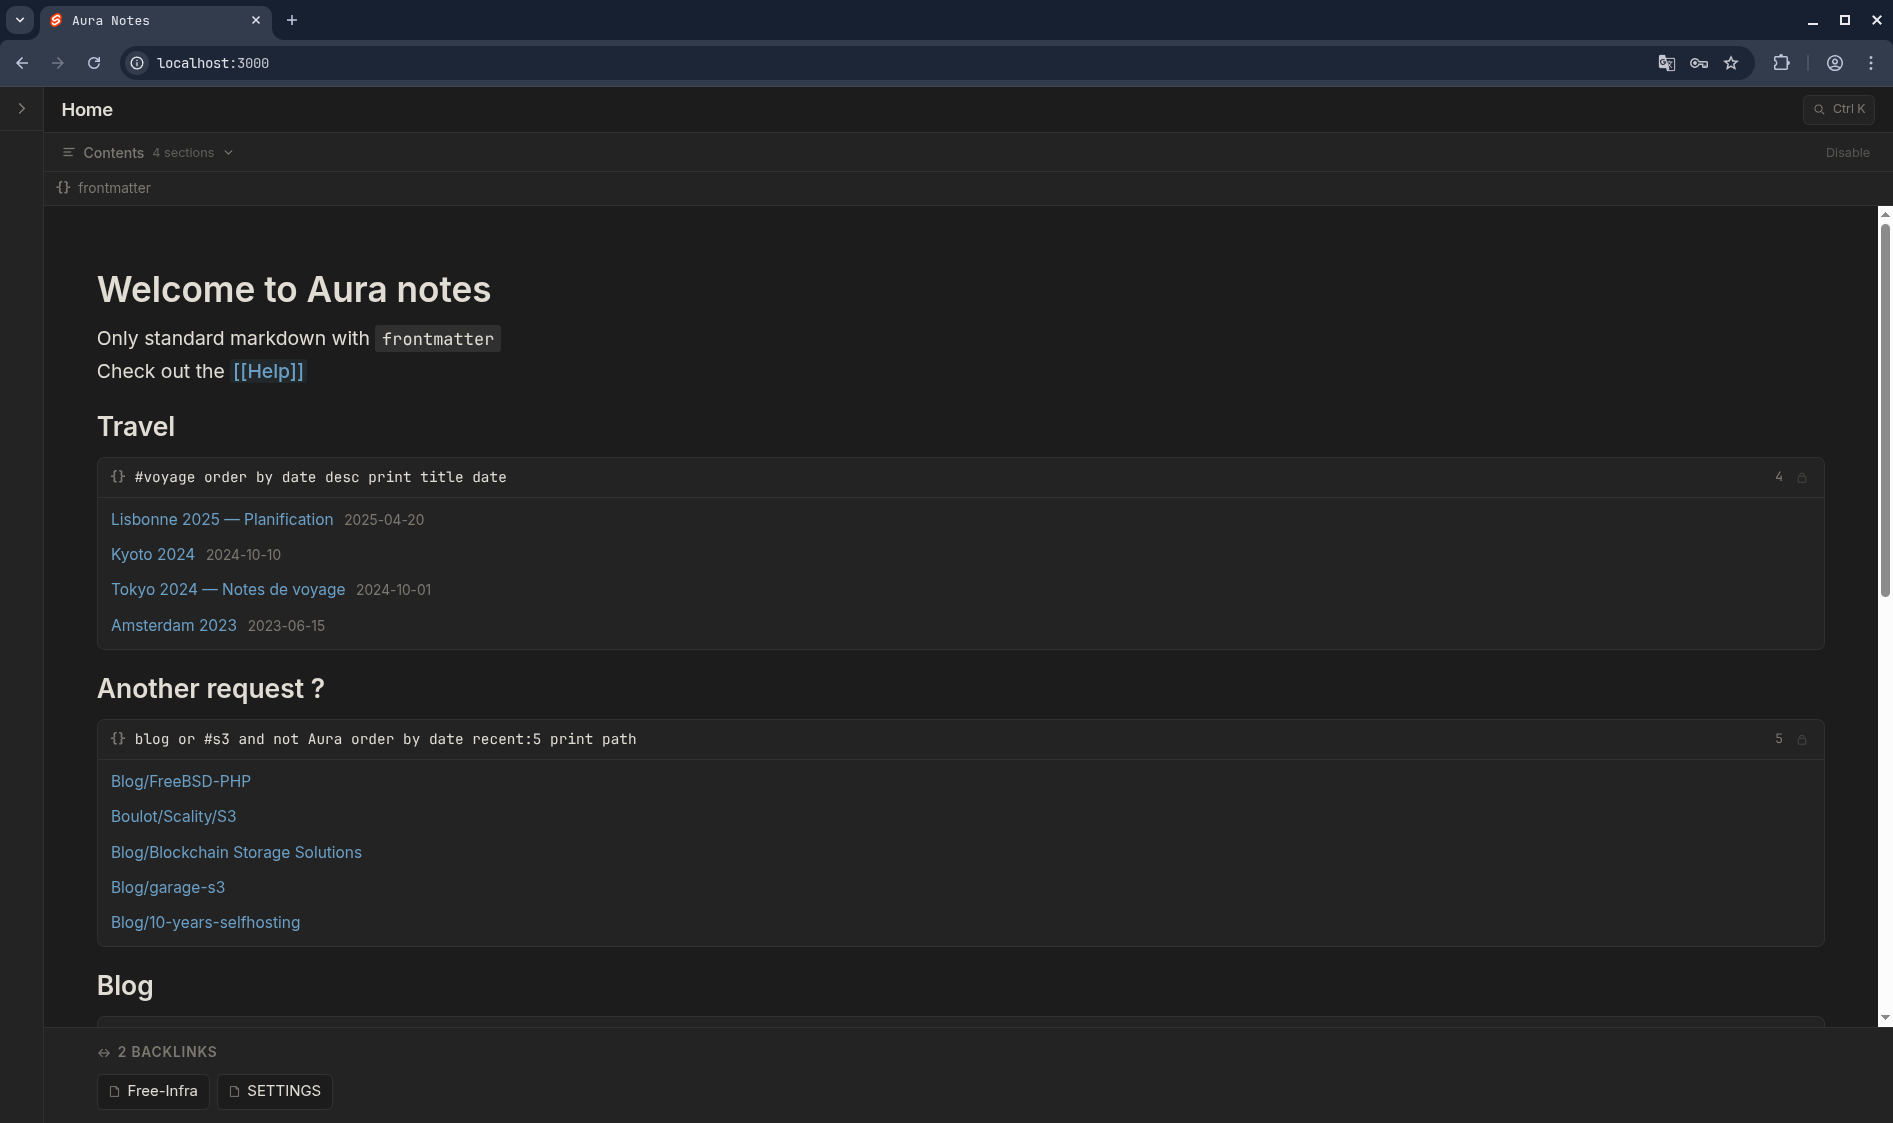
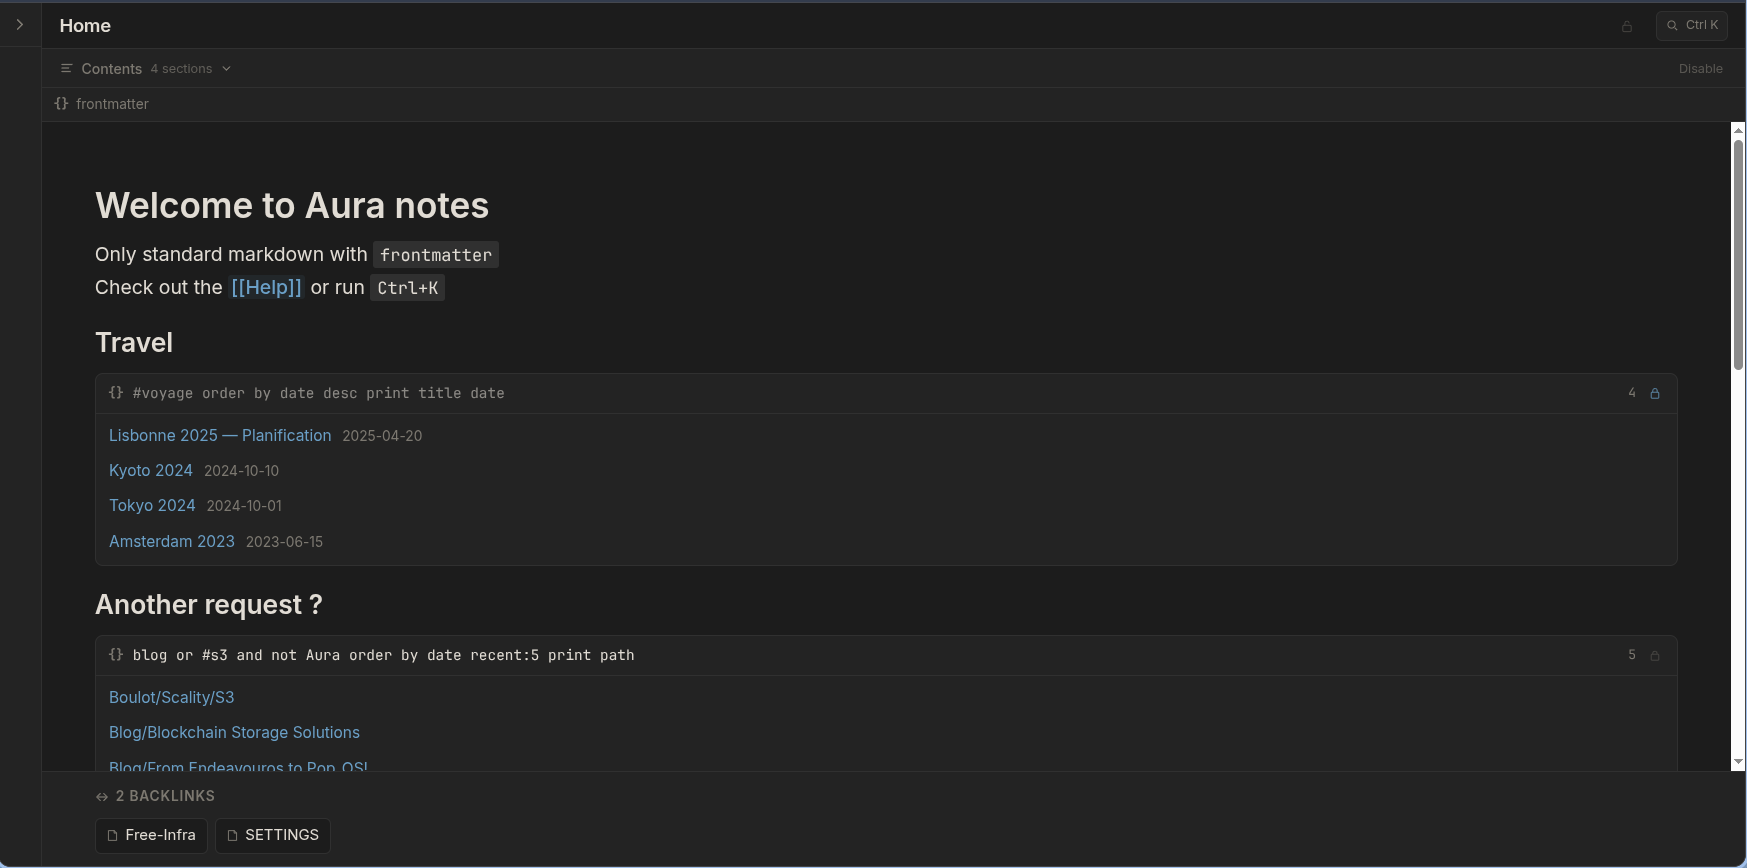
Add note locking, brute-force protection, responsive index grid
- locked: true frontmatter field makes a note read-only (frontend padlock
  icon in titlebar, TipTap editable toggled via $effect); queryable via
  locked:true/false in the DSL (NoteRow.locked, Pred::Locked)
- Login brute-force guard: 3 failures → 60s lockout per IP (in-memory,
  no external deps); uses ConnectInfo<SocketAddr> via Axum
- Index page grid: auto-fill responsive columns (1 on mobile, 2-3+ on
  wider screens) replacing the fixed 1fr 1fr
- Excalidraw CSS lazy-loaded with JS; chunkSizeWarningLimit raised to 2000
- Updated Help.md and CLAUDE.md

Changed region(s): [[0.0, 0.0, 1.0, 1.0], [0.0309, 0.2177, 0.2782, 0.3422]]

diff --git a/frontend/src/routes/+page.svelte b/frontend/src/routes/+page.svelte
@@ -63,6 +63,7 @@
 	);
 
 	const isIndex = $derived(noteFrontmatter.type === 'index');
+	const isLocked = $derived(noteFrontmatter.locked === true);
 
 	function disableToc() {
 		onFrontmatterChange({ ...noteFrontmatter, toc: false });
@@ -227,6 +228,16 @@
 		document.dispatchEvent(new CustomEvent('notes:changed'));
 	}
 
+	function toggleLock() {
+		const fm = { ...noteFrontmatter };
+		if (isLocked) {
+			delete (fm as any).locked;
+		} else {
+			(fm as any).locked = true;
+		}
+		onFrontmatterChange(fm);
+	}
+
 	function openPalette() {
 		paletteOpen = true;
 	}
@@ -352,6 +363,27 @@
 						{#if saving}
 							<span class="saving-label">Saving…</span>
 						{/if}
+						<button
+							onclick={toggleLock}
+							title={isLocked ? 'Unlock note' : 'Lock note (read-only)'}
+							class="lock-btn"
+							class:locked={isLocked}
+							aria-label={isLocked ? 'Unlock note' : 'Lock note'}
+						>
+							{#if isLocked}
+								<!-- Closed padlock -->
+								<svg width="14" height="14" viewBox="0 0 20 20" fill="none" aria-hidden="true">
+									<rect x="4" y="9" width="12" height="9" rx="2" stroke="currentColor" stroke-width="1.5"/>
+									<path d="M7 9V6a3 3 0 0 1 6 0v3" stroke="currentColor" stroke-width="1.5" stroke-linecap="round"/>
+								</svg>
+							{:else}
+								<!-- Open padlock -->
+								<svg width="14" height="14" viewBox="0 0 20 20" fill="none" aria-hidden="true">
+									<rect x="4" y="9" width="12" height="9" rx="2" stroke="currentColor" stroke-width="1.5"/>
+									<path d="M7 9V6a3 3 0 0 1 6 0" stroke="currentColor" stroke-width="1.5" stroke-linecap="round"/>
+								</svg>
+							{/if}
+						</button>
 						<!-- Small command palette button -->
 						<button
 							onclick={openPalette}
@@ -394,7 +426,7 @@
 					frontmatter={noteFrontmatter}
 					onChange={onFrontmatterChange}
 				/>
-				<Editor {noteContent} noteNames={notes.map(n => n.name)} {onEdit} {isIndex} />
+				<Editor {noteContent} noteNames={notes.map(n => n.name)} {onEdit} {isIndex} {isLocked} />
 			{/key}
 			<Backlinks note={selected} onNavigate={selectNote} />
 		{:else}
@@ -533,6 +565,28 @@
 	.cmd-btn kbd {
 		font-family: inherit;
 		font-size: 0.7rem;
+	}
+
+	.lock-btn {
+		background: none;
+		border: none;
+		cursor: pointer;
+		color: var(--muted);
+		padding: 0.25rem;
+		border-radius: 5px;
+		display: flex;
+		align-items: center;
+		opacity: 0.4;
+		transition: opacity 0.15s, color 0.15s;
+	}
+
+	.lock-btn:hover {
+		opacity: 1;
+	}
+
+	.lock-btn.locked {
+		opacity: 1;
+		color: #e07b39;
 	}
 
 	/* ── Rename ──────────────────────────────────────────────── */

diff --git a/frontend/src/lib/Editor.svelte b/frontend/src/lib/Editor.svelte
@@ -284,10 +284,11 @@
 		noteContent: string;
 		noteNames: string[];
 		isIndex?: boolean;
+		isLocked?: boolean;
 		onEdit: (markdown: string) => void;
 	}
 
-	let { noteContent, noteNames, isIndex = false, onEdit }: Props = $props();
+	let { noteContent, noteNames, isIndex = false, isLocked = false, onEdit }: Props = $props();
 
 	let element: HTMLDivElement;
 	let editor: Editor | null = null;  // must NOT be $state — TipTap mutates it internally
@@ -428,6 +429,11 @@
 		}
 	});
 
+	$effect(() => {
+		if (!editorReady || !editor) return;
+		editor.setEditable(!isLocked);
+	});
+
 	onDestroy(() => {
 		document.removeEventListener('insert-image', onInsertImageEvent);
 		if (_imgPasteHandler) element.removeEventListener('paste', _imgPasteHandler as EventListener, true);
@@ -438,7 +444,7 @@
 	});
 </script>
 
-<div bind:this={element} class="editor-wrap" class:index-page={isIndex}></div>
+<div bind:this={element} class="editor-wrap" class:index-page={isIndex} class:locked={isLocked}></div>
 
 {#if tableActive && editorReady}
 	<div class="table-toolbar" role="toolbar" tabindex="-1" aria-label="Table actions" style={toolbarStyle} onmousedown={(e) => e.preventDefault()}>
@@ -486,6 +492,11 @@
 		flex: 1;
 		overflow-y: auto;
 		padding: 2rem 3rem;
+	}
+
+	.locked :global(.tiptap-editor) {
+		cursor: default;
+		user-select: text;
 	}
 
 	/* ── Index page layout ──────────────────────────────── */

diff --git a/backend/src/auth.rs b/backend/src/auth.rs
@@ -1,10 +1,61 @@
+use std::{
+    collections::HashMap,
+    net::IpAddr,
+    sync::RwLock,
+    time::{Duration, Instant},
+};
 use std::sync::Arc;
 
 use argon2::{Argon2, PasswordHasher, PasswordVerifier, password_hash::{PasswordHash, SaltString}};
-use axum::{Json, extract::{Request, State}, http::{HeaderMap, StatusCode}, middleware::Next, response::Response};
+use axum::{Json, extract::{ConnectInfo, Request, State}, http::{HeaderMap, StatusCode}, middleware::Next, response::Response};
 use serde::{Deserialize, Serialize};
 
 use crate::AppState;
+
+// ── Brute-force guard ─────────────────────────────────────────────────────────
+
+const MAX_FAILURES: u32 = 3;
+const LOCKOUT: Duration = Duration::from_secs(60);
+
+struct FailRecord {
+    count: u32,
+    locked_until: Option<Instant>,
+}
+
+pub struct LoginGuard {
+    map: RwLock<HashMap<IpAddr, FailRecord>>,
+}
+
+impl LoginGuard {
+    pub fn new() -> Self {
+        Self { map: RwLock::new(HashMap::new()) }
+    }
+
+    pub fn is_locked(&self, ip: IpAddr) -> bool {
+        let map = self.map.read().unwrap();
+        map.get(&ip)
+            .and_then(|r| r.locked_until)
+            .is_some_and(|until| Instant::now() < until)
+    }
+
+    pub fn record_failure(&self, ip: IpAddr) {
+        let mut map = self.map.write().unwrap();
+        let rec = map.entry(ip).or_insert(FailRecord { count: 0, locked_until: None });
+        // Reset if a previous lockout has expired
+        if rec.locked_until.is_some_and(|u| Instant::now() >= u) {
+            rec.count = 0;
+            rec.locked_until = None;
+        }
+        rec.count += 1;
+        if rec.count >= MAX_FAILURES {
+            rec.locked_until = Some(Instant::now() + LOCKOUT);
+        }
+    }
+
+    pub fn record_success(&self, ip: IpAddr) {
+        self.map.write().unwrap().remove(&ip);
+    }
+}
 
 // ── Middleware ────────────────────────────────────────────────────────────────
 
@@ -40,15 +91,27 @@ pub struct LoginResponse {
 
 pub async fn login(
     State(state): State<Arc<AppState>>,
+    ConnectInfo(addr): ConnectInfo<std::net::SocketAddr>,
     Json(payload): Json<LoginPayload>,
 ) -> Result<Json<LoginResponse>, StatusCode> {
+    let ip = addr.ip();
+
+    if state.login_guard.is_locked(ip) {
+        return Err(StatusCode::TOO_MANY_REQUESTS);
+    }
+
     let hash = PasswordHash::new(&state.password_hash)
         .map_err(|_| StatusCode::INTERNAL_SERVER_ERROR)?;
 
-    Argon2::default()
+    if Argon2::default()
         .verify_password(payload.password.as_bytes(), &hash)
-        .map_err(|_| StatusCode::UNAUTHORIZED)?;
+        .is_err()
+    {
+        state.login_guard.record_failure(ip);
+        return Err(StatusCode::UNAUTHORIZED);
+    }
 
+    state.login_guard.record_success(ip);
     Ok(Json(LoginResponse { token: state.sessions.create() }))
 }
 

diff --git a/backend/src/db.rs b/backend/src/db.rs
@@ -22,6 +22,7 @@ pub struct NoteRow {
     pub author: Option<String>,
     pub rating: Option<i64>,
     pub pinned: bool,
+    pub locked: bool,
     pub area: Option<String>,
     pub priority: Option<String>,
     pub project: Option<String>,
@@ -72,6 +73,7 @@ impl Db {
             author: parsed.author.clone(),
             rating: parsed.rating,
             pinned: parsed.pinned,
+            locked: parsed.locked,
             area: parsed.area.clone(),
             priority: parsed.priority.clone(),
             project: parsed.project.clone(),
@@ -288,6 +290,7 @@ enum Pred {
     Alias(String, bool),      // exact match (lowercase)
     Url(String, bool),        // substring (lowercase)
     Pinned(bool),             // expected value (NOT already folded in at parse time)
+    Locked(bool),
     Priority(String, bool),        // exact match (high/medium/low)
     Project(String, bool),         // substring (lowercase)
     LastModified(String, bool),    // starts_with
@@ -360,6 +363,7 @@ impl Pred {
                 if *not { !m } else { m }
             }
             Pred::Pinned(expected) => note.pinned == *expected,
+            Pred::Locked(expected) => note.locked == *expected,
             Pred::Priority(val, not) => {
                 let m = note.priority.as_deref() == Some(val.as_str());
                 if *not { !m } else { m }
@@ -530,6 +534,11 @@ fn parse_query(q: &str) -> (Vec<Vec<Pred>>, Vec<Pred>, Option<usize>, Option<usi
                 "pinned" => match v {
                     "true"  => Pred::Pinned(!not),
                     "false" => Pred::Pinned(not),
+                    _       => continue,
+                },
+                "locked" => match v {
+                    "true"  => Pred::Locked(!not),
+                    "false" => Pred::Locked(not),
                     _       => continue,
                 },
                 "recent" => {

diff --git a/backend/src/main.rs b/backend/src/main.rs
@@ -25,6 +25,7 @@ pub struct AppState {
     pub password_hash: String,
     pub sessions: session::SessionStore,
     pub api_key: Option<String>,
+    pub login_guard: auth::LoginGuard,
 }
 
 #[tokio::main]
@@ -96,6 +97,7 @@ async fn setup_state() -> (AppState, u16) {
         password_hash: cfg.password,
         sessions: session::SessionStore::new(),
         api_key: cfg.api_key,
+        login_guard: auth::LoginGuard::new(),
     };
     (state, port)
 }
@@ -140,7 +142,7 @@ async fn run_server(state: Arc<AppState>, port: u16) {
     let addr = format!("0.0.0.0:{port}");
     let listener = tokio::net::TcpListener::bind(&addr).await.unwrap();
     tracing::info!("Listening on http://{addr}");
-    axum::serve(listener, app).await.unwrap();
+    axum::serve(listener, app.into_make_service_with_connect_info::<std::net::SocketAddr>()).await.unwrap();
 }
 
 fn index_all_notes(db: &db::Db, notes_dir: &std::path::Path) {

diff --git a/backend/src/frontmatter.rs b/backend/src/frontmatter.rs
@@ -18,6 +18,7 @@ pub struct ParsedNote {
     pub author: Option<String>,
     pub rating: Option<i64>,
     pub pinned: bool,
+    pub locked: bool,
     pub area: Option<String>,
     pub priority: Option<String>,
     pub project: Option<String>,
@@ -148,6 +149,11 @@ pub fn parse_note(content: &str) -> ParsedNote {
         .and_then(|v| v.as_bool())
         .unwrap_or(false);
 
+    let locked = frontmatter
+        .get("locked")
+        .and_then(|v| v.as_bool())
+        .unwrap_or(false);
+
     let area = frontmatter
         .get("area")
         .and_then(|v| v.as_str())
@@ -182,6 +188,7 @@ pub fn parse_note(content: &str) -> ParsedNote {
         author,
         rating,
         pinned,
+        locked,
         area,
         priority,
         project,

diff --git a/backend/src/defaults/Help.md b/backend/src/defaults/Help.md
@@ -25,12 +25,13 @@ priority: high
 project: Aura Notes
 rating: 4
 pinned: false
+locked: false
 ---
 ```
 
 **Dynamic queries filter notes based on these fields as well as file modification dates.** Each `field:value` in a query maps directly to a frontmatter field.
 
-Available fields: `title`, `status`, `date`, `due`, `type`, `area`, `author`, `rating`, `url`, `alias`, `pinned`, `tags`, `priority`, `project`, `lastModified`.
+Available fields: `title`, `status`, `date`, `due`, `type`, `area`, `author`, `rating`, `url`, `alias`, `pinned`, `locked`, `tags`, `priority`, `project`, `lastModified`.
 
 All fields are optional. The `title` field has a special behavior: if the note starts with a `# H1`, it is automatically used as the title (visible in the sidebar and search results). A `title:` manually set in the frontmatter takes priority over the H1.
 
@@ -90,6 +91,7 @@ lastModified: 2026-01-01
 | `url:value` | Frontmatter `url` | Substring | `url:github.com` |
 | `alias:value` | Frontmatter `aliases` | Exact | `alias:my-shortcut` |
 | `pinned:true/false` | Frontmatter `pinned` | Exact | `pinned:true` |
+| `locked:true/false` | Frontmatter `locked` | Exact | `locked:true` |
 | `lastModified:prefix` | Frontmatter `lastModified` (auto-updated on save) | Prefix | `lastModified:2026-05` |
 | `recent:n` | **File modification** date | The n most recent | `recent:10` |
 | `oldest:n` | **File modification** date | The n oldest | `oldest:5` |
@@ -284,9 +286,20 @@ Query blocks placed consecutively flow into the two-column grid; headings and pa
 
 ---
 
-### Locking a Query Block
+### Locking a Note (Read-Only)
 
-The small lock icon (🔒) in the corner of a `{}` block freezes the query to prevent accidental changes. Results continue to update dynamically. The locked state is persisted in the Markdown file.
+The padlock icon in the title bar toggles a note between **editable** and **read-only** mode.
+
+- Click the open padlock → the note is locked. `locked: true` is written to the frontmatter and the editor becomes non-editable.
+- Click the closed padlock (orange) → the note is unlocked and editable again.
+
+The locked state is stored directly in the frontmatter, so it persists across sessions and is queryable:
+
+```
+locked:true                          → all locked notes
+locked:false                         → all editable notes
+locked:true order by lastModified    → locked notes, most recently saved first
+```
 
 ---
 

diff --git a/CLAUDE.md b/CLAUDE.md
@@ -121,6 +121,7 @@ Parsed entirely in `src/db.rs::parse_query`. Tokens are whitespace-separated.
 - `rating:n` → exact integer match
 - `alias:val` → exact match on aliases list
 - `pinned:true/false` → boolean
+- `locked:true/false` → boolean (note is read-only when `true`)
 - `priority:val` → exact match (`high`, `medium`, `low`); `order by priority` uses semantic order (high → medium → low)
 
 **Limiters** (applied before `order by`):
@@ -149,8 +150,15 @@ On every `PUT /notes/{name}`, `src/frontmatter.rs::stamp_last_modified()` is cal
 Notes with `type: index` in their frontmatter are treated as dashboard pages:
 - **Backend:** `NoteMeta.is_index` is set to `true` in `GET /notes`
 - **Sidebar:** shown in a dedicated section at the top (above the tree), with a grid icon (⊞)
-- **Editor:** H1 is centered + larger; query blocks render in a 2-column CSS grid (non-query-block elements span full width via `grid-column: 1 / -1`)
+- **Editor:** H1 is centered + larger; query blocks render in a responsive CSS grid (`repeat(auto-fill, minmax(min(100%, 380px), 1fr))`) — 1 column on mobile, 2 on tablet, 3+ on wide screens. Non-query-block elements span full width via `grid-column: 1 / -1`.
 - **Command palette:** grid icon instead of the document icon
+
+### Note locking (`locked: true`)
+
+Setting `locked: true` in a note's frontmatter makes it read-only:
+- **Frontend:** padlock icon in the title bar (discrete when unlocked, orange when locked). Clicking toggles `locked: true/false` in the frontmatter and saves. TipTap switches to `editable(false)` via `$effect` reacting to the `isLocked` prop.
+- **Backend:** `NoteRow.locked` is indexed from frontmatter; queryable via `locked:true/false` in the DSL (`Pred::Locked`).
+- **Enforcement:** frontend-only — the backend does not reject PUT/DELETE on locked notes. Locking is a UX guard, not a security boundary.
 
 ### Backend source files
 - `src/main.rs` — Axum router, app state, startup indexing, `--hash-password` flag
